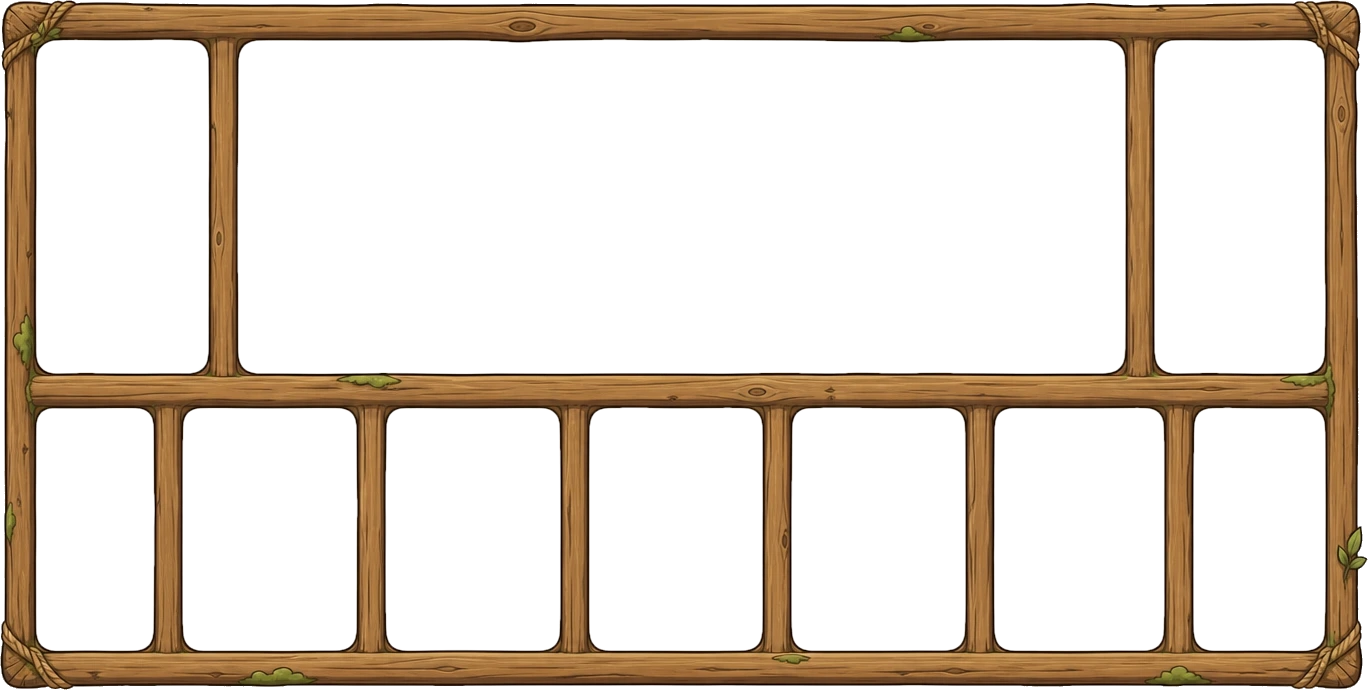
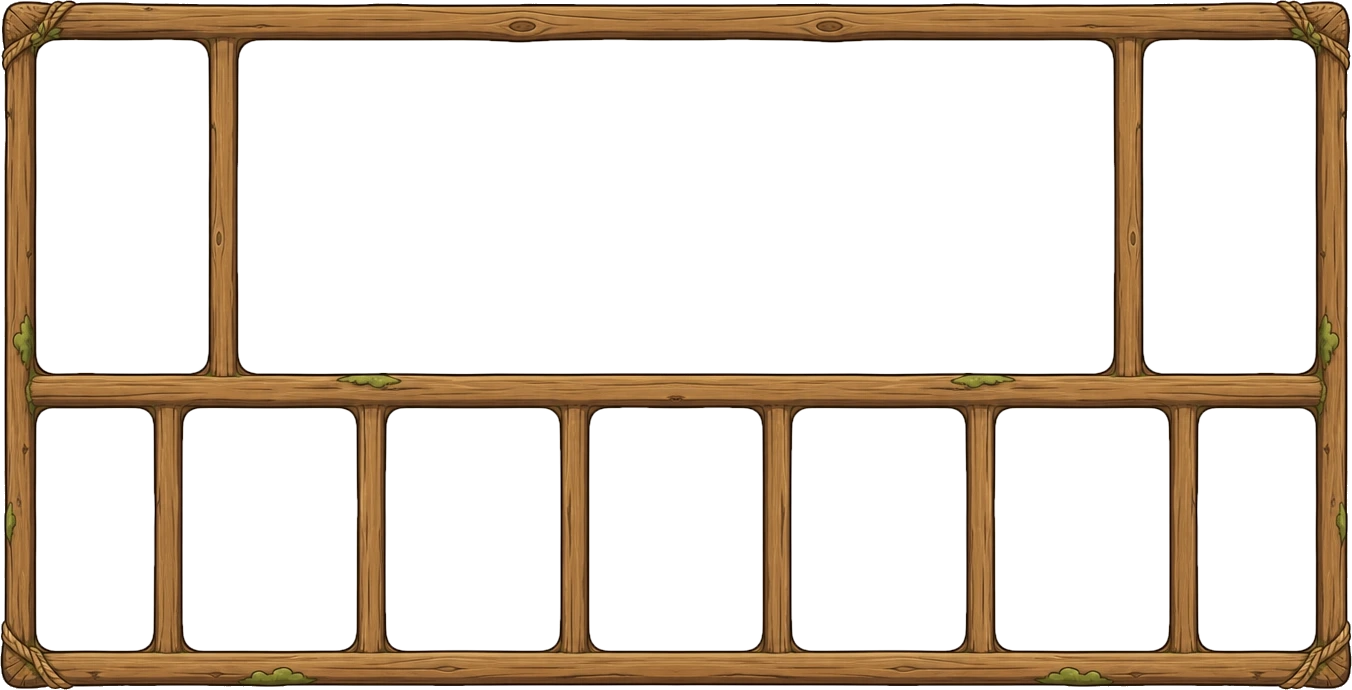
fix: 액자 좌우를 대칭으로 — 왼쪽 절반을 뒤집어 붙인다
받은 그림은 오른쪽이 더 넓었다.

    체력칸    왼 117 / 오 131   (14px)
    바깥 여백  왼  4  / 오  10   (6px)
    카드칸    왼 173 / 오 169   (4px)

## ⚠ 권하신 "세로 기둥 잘라 맞추기"로는 안 되는 그림이다
세로로 한 줄을 지우면 **윗줄과 아랫줄이 함께** 줄어드는데, 두 줄의 칸 경계가 서로
어긋나 있다.

    왼쪽   경험치칸 오른쪽 끝(208)이 첫 카드칸 시작(183)보다 **25px 안쪽**
    오른쪽 경험치칸 왼쪽 끝(1155)이 끝 카드칸 끝(1164)보다 ** 9px 바깥**

이 25 대 9를 맞추려면 x 1155~1164, 곧 **그 9px 구간에만** 16px을 끼워 넣어야 하는데
그 자리는 두 줄 모두 **둥근 모서리가 그려진 곳**이라 손대면 모서리가 늘어난다.
열을 지우고 끼우는 조합을 아무리 바꿔도 이 제약은 남는다.

## 그래서 좌우 반전
왼쪽 절반을 그대로 두고 오른쪽을 그 거울상으로 바꿨다(`scripts/mirrorPlayFrame.mjs`).
늘이거나 줄이는 곳이 한 군데도 없어 비율·디자인이 그대로고, 모서리도 원본을 옮겨온
것이라 온전하다. 결과는 **정의상** 완전 대칭이다.

반전 축은 **가운데 카드칸의 한가운데**(x=676)로 잡았다 — 그 칸이 원래 폭(172)을
유지하고, 축이 지나는 자리가 두 줄 모두 빈 구멍이라 이음매가 나무를 가르지 않는다.

    액자     1368×690 → 1352×690
    윗줄     ·4 ▓33 ·171 ▓30 ·876 ▓30 ·171 ▓33 ·4     좌우 차이 전부 0
    아랫줄   ·4 ▓33 ·117 ▓29 ·174 … ·174 ▓29 ·117 ▓33 ·4   좌우 차이 전부 0

카드칸(174)과 체력칸(117)의 폭이 달라야 한다는 조건은 그대로다.

⚠ 오른쪽에만 있던 잎 장식은 왼쪽 것의 거울상으로 바뀌었다. 장식이 좌우로 짝을
이루게 되지만 원본과 다른 점이라 적어 둔다.

받은 원본은 `assets-src/play_frame_src.png`로 남겼다 — 원본을 갈아끼우면 반전
스크립트를 **다시 돌려야** 한다.

## 함께 고친 짝
액자 비율이 바뀌었으므로 세로 예산도 함께 고쳤다(주석이 경고하던 그 짝):
0.0756 + 690/1352 = **0.586** (이전 0.580). 칸 좌표·카드 grid·안내 쪽지 자리도
대칭본 실측으로 갈았다.

## 검증
1920에서 액자 x 57 · 폭 1806, 팀 패널 안쪽 여백 왼 49 / 오 50(반올림 1px),
체력판도 같다. 세 해상도 × 두 단계 넘침 0, server 63/63, 빌드 통과.

diff --git a/client/app/globals.css b/client/app/globals.css
@@ -8,14 +8,14 @@
 
      폭은 **세로 예산**이 정한다 — 둘을 쌓은 높이가 화면을 넘으면 안 되므로:
        상단 바 보이는 높이   W × 189/2500 = 0.0756 W
-       액자 높이             W × 690/1368 = 0.5044 W
-       합                                 ≈ 0.580 W  ≤ 98vh
+       액자 높이             W × 690/1352 = 0.5104 W
+       합                                 ≈ 0.586 W  ≤ 98vh
      가로로는 --stage-pad만큼 양옆을 비운다 — 화면을 꽉 채우지 않는다.
 
-     ⚠ 액자 그림을 갈아끼우면 690/1368과 0.58을 **함께** 고칠 것. 비율만 고치고
-     0.58을 두면 세로가 넘치거나 아래가 크게 남는다. */
+     ⚠ 액자 그림을 갈아끼우면 690/1352과 0.586을 **함께** 고칠 것. 비율만 고치고
+     0.586을 두면 세로가 넘치거나 아래가 크게 남는다. */
   --stage-pad: 2.5vw;
-  --stage-w: min(calc(100vw - var(--stage-pad) * 2), calc(98vh / 0.58));
+  --stage-w: min(calc(100vw - var(--stage-pad) * 2), calc(98vh / 0.586));
   /* 상단 바와 액자 사이 숨통 — 0이면 두 나무가 맞닿아 한 덩어리로 보인다 */
   --stage-gap: 0.8vh;
   --beam-h: calc(var(--stage-w) * 233 / 2500);
@@ -3811,9 +3811,9 @@ body {
      폭이 어긋난다. 세로가 넘치지 않는 것은 --stage-w가 이미 "상단 바 + 액자"를
      함께 세어 정하기 때문이다(:root 주석 참고). */
   --pf-w: var(--stage-w);
-  --pf-h: calc(var(--pf-w) * 690 / 1368);
+  --pf-h: calc(var(--pf-w) * 690 / 1352);
   /* 칸 모서리 둥글기 — 그림에서 잰 값이 칸마다 14~31px이라 22px 하나로 묶고 배율만큼 줄인다 */
-  --cell-r: calc(var(--pf-w) * 22 / 1368);
+  --cell-r: calc(var(--pf-w) * 22 / 1352);
 
   position: relative;
   width: var(--pf-w);
@@ -3834,29 +3834,29 @@ body {
   background: var(--cell-paper, #fee9bb);
 }
 
-/* 윗줄 */
-.play-cell-exp-a { left:  2.705%; top:  5.797%; width: 12.500%; height: 48.261%; }
-.play-cell-board { left: 17.398%; top:  5.797%; width: 64.839%; height: 48.261%; }
-.play-cell-exp-b { left: 84.430%; top:  5.942%; width: 12.427%; height: 48.116%; }
+/* 윗줄 — 좌우 여백이 2.737%로 **같다**(왼쪽 절반을 뒤집어 붙인 그림이라 정의상 대칭) */
+.play-cell-exp-a { left:  2.737%; top:  5.797%; width: 12.648%; height: 48.261%; }
+.play-cell-board { left: 17.604%; top:  5.797%; width: 64.793%; height: 48.261%; }
+.play-cell-exp-b { left: 84.615%; top:  5.797%; width: 12.648%; height: 48.261%; }
 
-/* 아랫줄 양 끝 — 체력. 좌우가 몇 px 다른데 손으로 그린 액자라 그림 그대로 둔다 */
-.play-cell-hp-a  { left:  2.705%; top: 59.275%; width:  8.553%; height: 34.928%; }
-.play-cell-hp-b  { left: 87.281%; top: 59.130%; width:  9.576%; height: 35.072%; }
+/* 아랫줄 양 끝 — 체력. 카드칸(12.87%)보다 좁아야 한다는 조건은 그대로다(8.654%) */
+.play-cell-hp-a  { left:  2.737%; top: 59.275%; width:  8.654%; height: 34.928%; }
+.play-cell-hp-b  { left: 88.609%; top: 59.275%; width:  8.654%; height: 34.928%; }
 
 /* 기술 카드 다섯 칸 — 낱장으로 흩어 놓지 않고 **띠 하나**로 덮은 뒤 그 안에서 나눈다.
    ⚠ 칸 폭이 248~267px로 제각각이라 `fr`에 실측값을 그대로 넣었다 — 균등 분할하면
    가운데로 갈수록 나무 구멍과 어긋난다(양 끝은 맞는데 3번 칸이 3px씩 밀린다). */
 .play-cards {
   position: absolute;
-  left: 13.377%;
+  left: 13.536%;
   top: 59.275%;
-  width: 71.711%;
+  width: 72.929%;
   height: 34.928%;
 }
 .play-cards-grid {
   display: grid;
-  grid-template-columns: 174fr 174fr 172fr 173fr 169fr;
-  gap: 3.033%;            /* 칸 사이 네 곳의 평균 29.75px */
+  grid-template-columns: 174fr 174fr 172fr 174fr 174fr;
+  gap: 2.992%;            /* 칸 사이 네 곳의 평균 29.5px */
   height: 100%;
 }
 /* 카드 한 장 — 칸과 **같은** 둥글기여야 나무 구멍과 어긋나 보이지 않는다.
@@ -3875,8 +3875,8 @@ body {
    넘쳐 표지판처럼 걸린다 — 가리는 면적이 가장 작은 자리다. */
 .play-prompt-strip {
   position: absolute;
-  left: 17.398%;
-  width: 64.839%;
+  left: 17.604%;
+  width: 64.793%;
   top: 54.058%;    /* 보드 칸 바로 아래(5.797 + 48.261) */
   height: 5.217%;  /* 카드 줄(59.275)까지 */
   z-index: 22;

diff --git a/client/lib/playAssets.ts b/client/lib/playAssets.ts
@@ -34,7 +34,11 @@ export const PLAY_ASSETS = {
   upperBar: '/play/upper_bar.webp',
 
   /**
-   * 플레이 화면 **통짜 액자**(1368×690) — 칸막이까지 그려진 한 장.
+   * 플레이 화면 **통짜 액자**(1352×690) — 칸막이까지 그려진 한 장.
+   *
+   * ⚠ 받은 원본(`play_frame_src.png`)은 **좌우가 비대칭**이었다(체력칸 117 대 131).
+   * `scripts/mirrorPlayFrame.mjs`가 왼쪽 절반을 뒤집어 붙여 대칭본을 만든다 —
+   * 원본을 갈아끼우면 그 스크립트를 **다시 돌려야** 한다.
    *
    * 칸 10개(윗줄 3 · 아랫줄 7)의 자리가 그림 안에 이미 정해져 있어, 화면 배치를
    * 정하는 주체가 CSS가 아니라 **이 그림**이다. 칸 좌표는 globals.css의

diff --git a/client/public/play/README.md b/client/public/play/README.md
@@ -6,7 +6,8 @@
 | 시트 | 무엇이 들어 있나 |
 | --- | --- |
 | `master_sheet.png` | 상단 바 · 알약 · 게이지 · 노트 · 화살표 · 장식 (37조각) — **색 보정본**(2560×1339) |
-| `play_frame.png` | 플레이 화면 **통짜 액자** 한 장 (칸 10개가 그려져 있다) |
+| `play_frame_src.png` | 플레이 화면 통짜 액자 — **받은 원본**(좌우 비대칭) |
+| `play_frame.png` | 위를 좌우 대칭으로 만든 것 — `node scripts/mirrorPlayFrame.mjs assets-src/play_frame_src.png assets-src/play_frame.png` |
 | `frames_sheet.png` | **나무 액자 3종 + 양피지 3종** — 가로·정사각·세로 한 벌씩 |
 | `frame_sheet.png` | 양피지(`pg_*`) 여섯 장. 여기 있던 나무테(`wf_*`)·통나무 바는 걷어냈다 |
 | `card_frame_sheet.png` | 기술 카드 금색 액자와 모서리 장식 |
@@ -80,7 +81,7 @@ cd client && node scripts/cutPlaySheet.mjs
 | 클래스 | 그림 | 크기 | 분할 | 값 | 쓰는 곳(높이) |
 | --- | --- | --- | --- | --- | --- |
 | `.play-beam` | **`upper_bar`** | 2500×233 | **분할 없음 — 통째 확대** | 상자 비율을 그림 비율에 맞춤 | 상단 바 (너비의 1/10.73) |
-| `.play-frame` | **`play_frame`** | 1368×690 | **분할 없음 — 통째 확대** | 칸 좌표를 %로 (`.play-cell-*`) | 플레이 화면 전체 |
+| `.play-frame` | **`play_frame`** | 1352×690 | **분할 없음 — 통째 확대** | 칸 좌표를 %로 (`.play-cell-*`) | 플레이 화면 전체 |
 | `.play-nameplate` | (그림 없음 — 팻말이 `upper_bar` 안에 있다) | — | 절대 배치 | x 129 / y 71 / 304×107 (÷237) | 팻말 위 두 줄 |
 | `.play-pill-green` | `pill_green` | 211×116 | 3분할 | 캡 10 / 70 | 단계 알약 (16px) |
 | `.play-pill-gold` | `pill_gold` | 194×118 | 3분할 | 캡 10 / 70 | (예비) |
